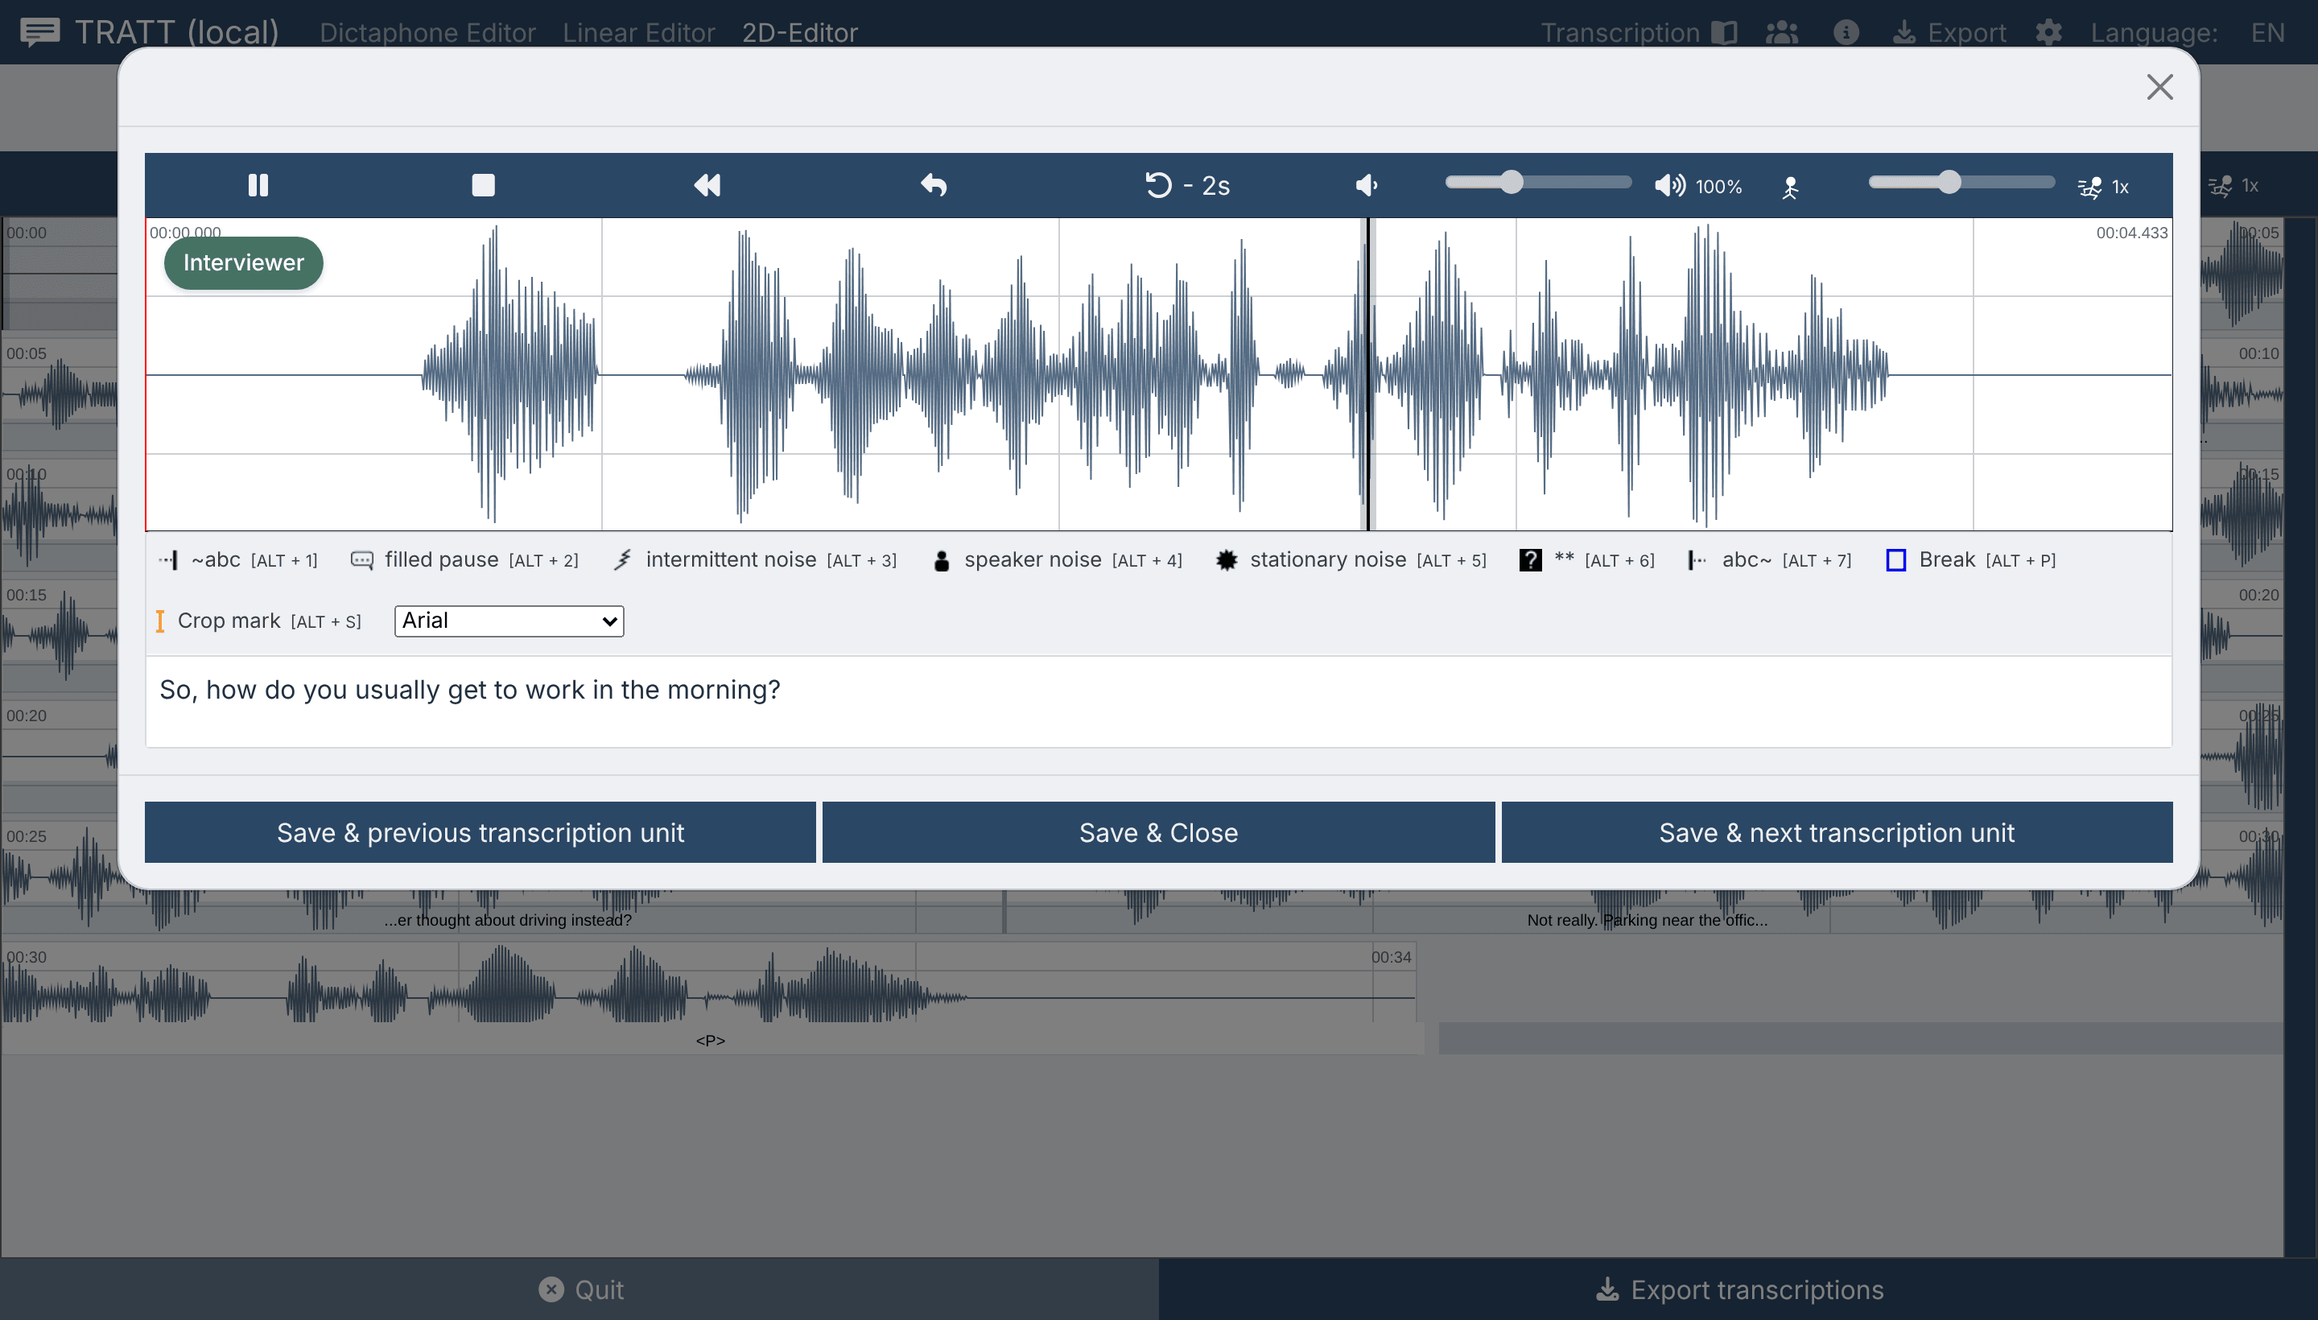
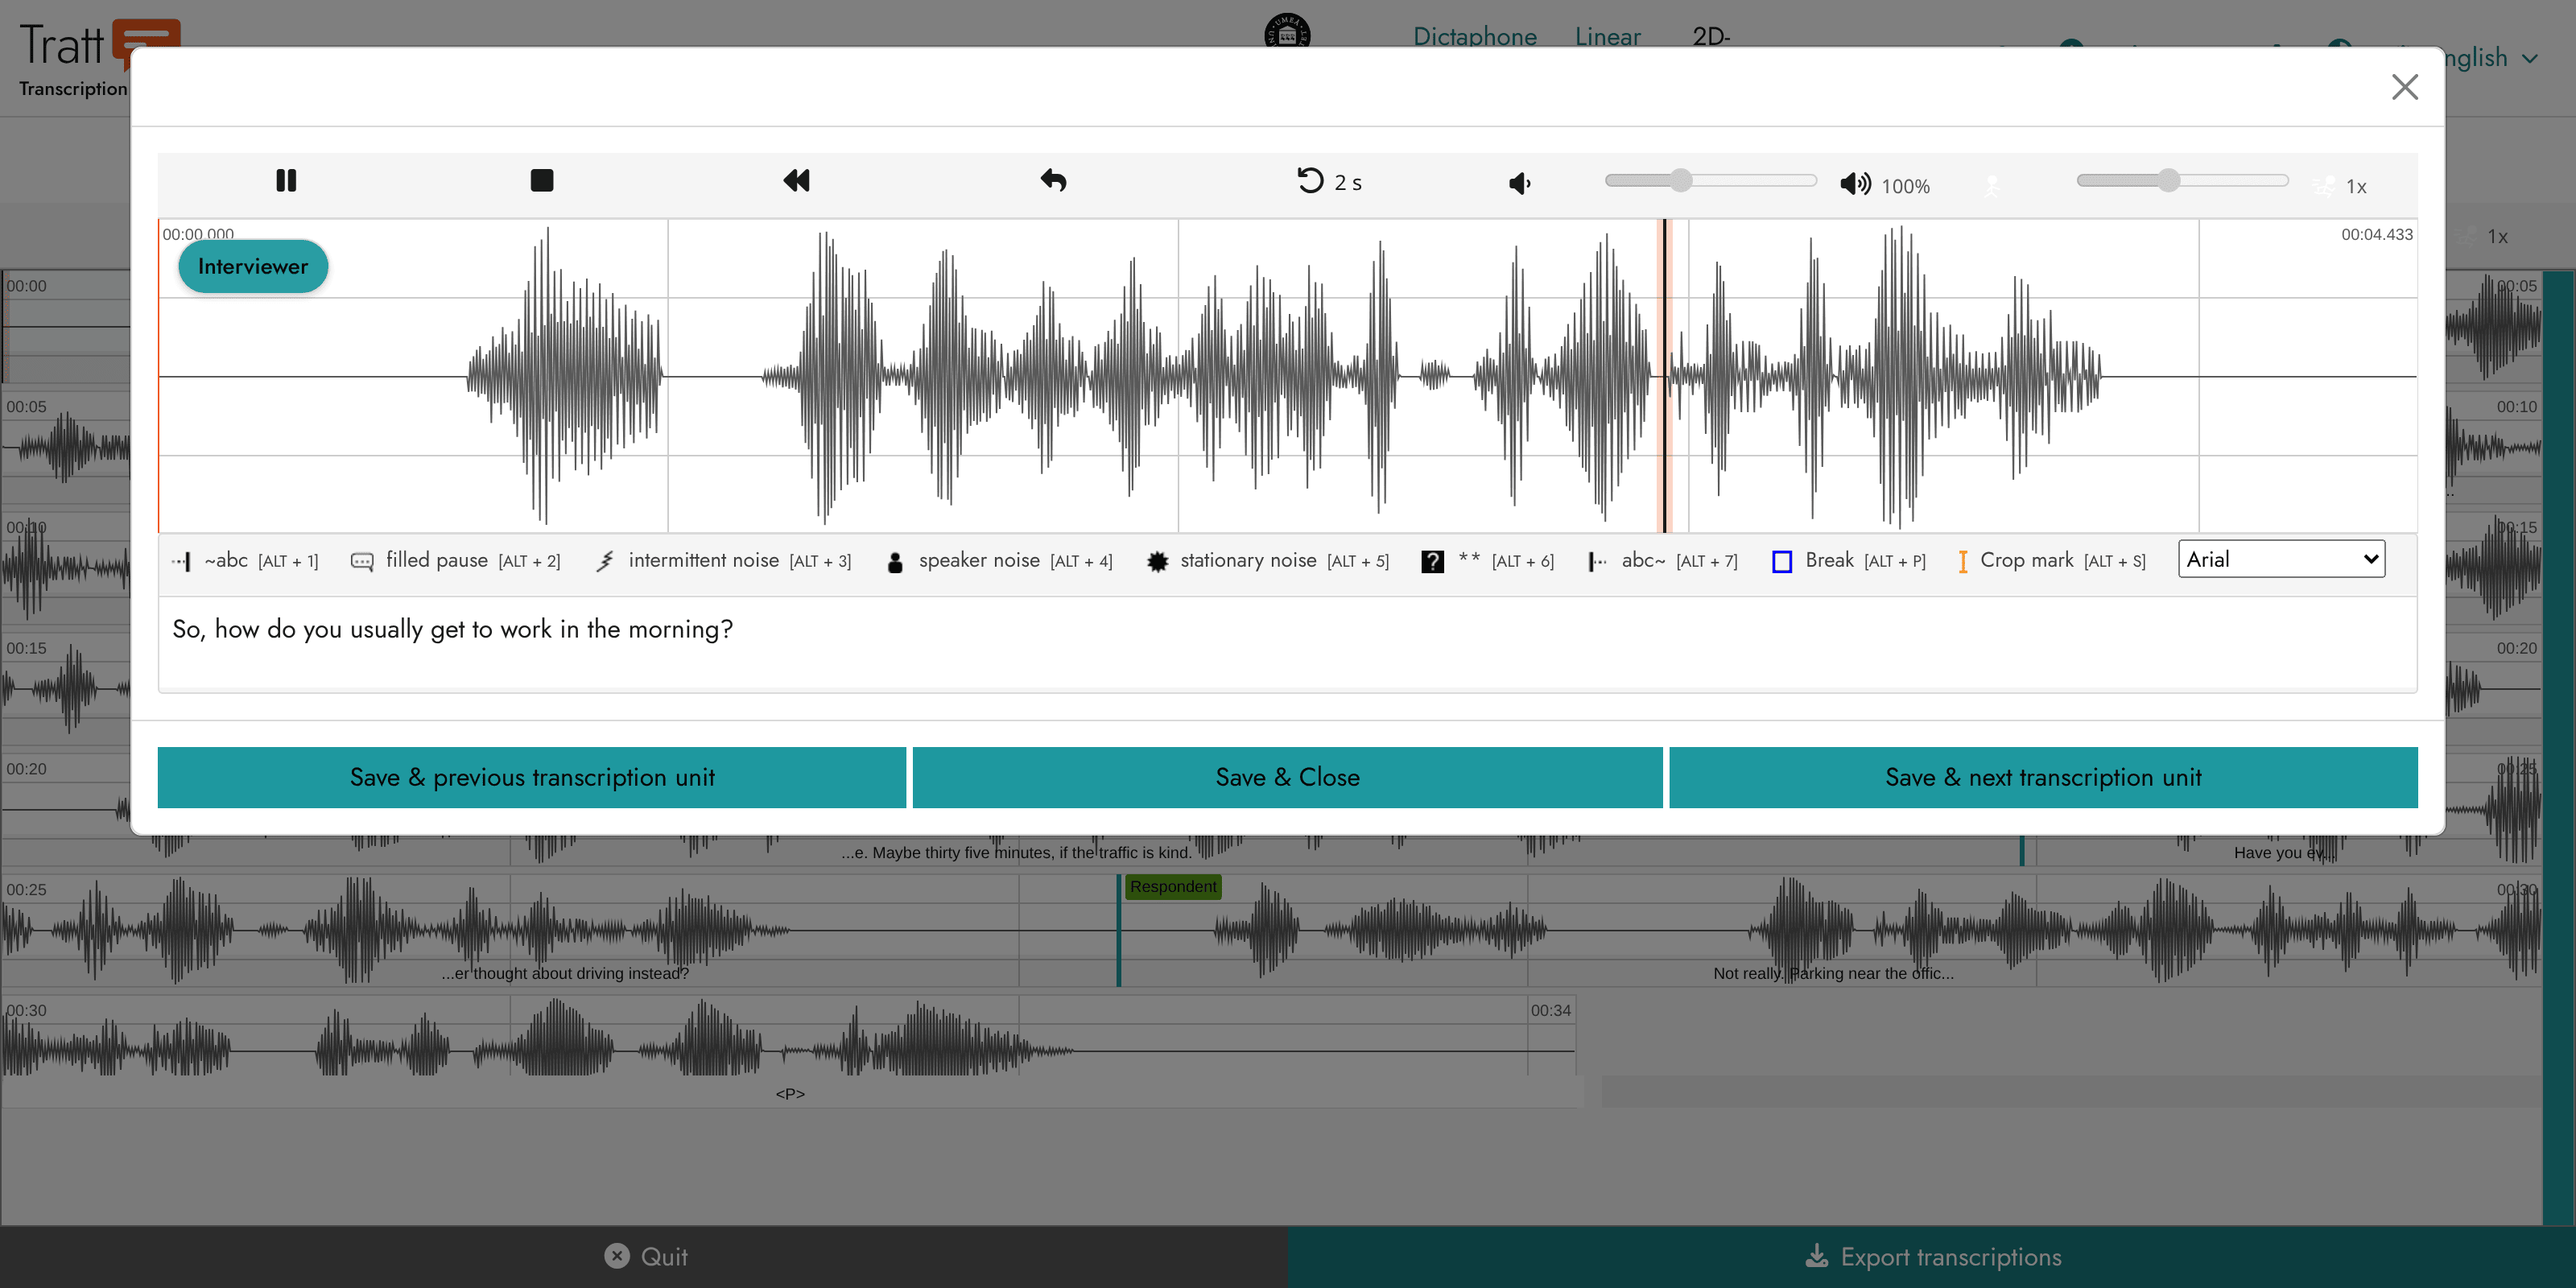
docs(manual): re-shoot the screenshots for the Språkbanken profile
Ten of the twelve images in docs/assets now come from a production build of
3ed8c0b33 (3.2.1): white header with the Tratt mark and the Umeå/Humlab logo,
teal for interaction, orange for the next step, Jost headings over Noto Serif
body. The shipped-shape spec recorded them as not regenerated because the
fixtures and espeak-ng were missing; both exist again, so nine were taken in one
run against that build and the Whisper options in a real Chrome with WebGPU.

Three things the new shots showed the text had wrong:

- The Overview's inline editor opens on a double-click, not a click
  (transcr-overview.component.html binds dblclick). Corrected in both languages.
- Large v3 is ~1.2 GB, not 3.1 GB. The other model rows, including the Swedish
  KB-Whisper and Finnish lists, still match.
- Auto-transcribe with Whisper is a switch now, not a checkbox, and sits beside
  Translate transcript locally inside the upload card. The Whisper image covers
  the whole card for that reason.

CONTRIBUTING loses its "stale, pre-profile" warning and records the viewports
used (1600 wide for the editors, 620 high for the two that are a player over a
text field), that the importer marks one row verified where the fixture expects
two, and that two README-only images could not be regenerated: the draft
transcription needs huggingface.co and the video popup needs a video fixture the
app accepts.

Validated: 16 pages x 2 languages, all links/anchors/deep links resolve.
[…]

diff --git a/docs/manual/CONTRIBUTING.md b/docs/manual/CONTRIBUTING.md
@@ -177,17 +177,17 @@ Not exercised live, and therefore still source-derived only:
 
 ## Screenshots
 
-**Stale: the following describes the images as they were before the Språkbanken
-profile.** The nine screenshots in `docs/assets/` were taken from a production
-build served locally, so the chrome matched from page to page. Seven of them came
-from one session on the 8 October build; the Overview and the Workbench were
-re-shot from the 22 October build, which was the first to carry the verification
-markers and the current drop-area wording. None of them has been re-shot since the
-profile, so they still show the old look (navy header, blue buttons) until the
-script has been run and the by-hand images taken.
+The ten screenshots in `docs/assets/` were re-shot for the Språkbanken profile
+from a production build of `3ed8c0b33` (version 3.2.1) served locally, so the
+chrome matches from page to page: white header, Umeå/Humlab logo, teal
+interaction and orange next-step buttons, Jost headings over Noto Serif body.
+Nine came from one run against that build; `auto_transcription_options` was taken
+in a real Chrome with WebGPU, as it always has to be.
 
-The script's selectors have not been run against the live UI; expect to adjust
-them on the first run.
+Two README-only images still show the pre-profile look and could not be
+regenerated here: `draft_automatic_transcription` needs an auto-transcription in
+progress (the model download needs `huggingface.co`) and
+`popup_editor_audio_and_video` needs a video fixture that the app will accept.
 
 To re-shoot (everything except the WebGPU image):
 
@@ -218,12 +218,12 @@ To re-shoot (everything except the WebGPU image):
 | File                                        | Shows                                                       | Used by                                   |
 | ------------------------------------------- | ----------------------------------------------------------- | ----------------------------------------- |
 | `visp_tratt_main.png`                       | The start page down to the start button                     | `quick-start.md`                          |
-| `visp_tratt_auto_transcription_options.png` | The **Auto-transcribe with Whisper** panel                  | `automatic-transcription.md`              |
+| `visp_tratt_auto_transcription_options.png` | The upload card with the Whisper options open               | `automatic-transcription.md`              |
 | `visp_tratt_2d_editor.png`                  | The 2D-Editor with speaker badges                           | `the-editors.md`                          |
 | `visp_tratt_popup_editor_audio_only.png`    | The transcription window over the 2D-Editor                 | `quick-start.md`, `the-editors.md`        |
 | `visp_tratt_dictaphone_editor.png`          | The Dictaphone Editor                                       | `the-editors.md`                          |
 | `visp_tratt_linear_editor.png`              | The Linear Editor, both displays, one unit open             | `the-editors.md`                          |
-| `visp_tratt_overview_edit.png`              | The Overview window, with verified and non-verified markers | `quick-start.md`, `checking-your-work.md` |
+| `visp_tratt_overview_edit.png`              | The Overview window, one row open for editing               | `quick-start.md`, `checking-your-work.md` |
 | `visp_tratt_export_formats.png`             | The export dialog                                           | `quick-start.md`, `exporting.md`          |
 | `visp_tratt_workbench.png`                  | The Workbench with four recordings                          | `workbench.md`                            |
 
@@ -242,18 +242,27 @@ How to reproduce them:
 - The Overview needs a part-checked transcript, or every row is the same colour.
   An SRT that Tratt itself has imported comes in verified unless the text carries
   the not-check mark, so `interview-01-mixed.srt` appends `⍻` (U+237B) to every
-  line but the first two. The first two then show the green marker and the rest
-  the orange one, which is what the reader sees after checking the opening of a
-  file. See [Verification marks](exporting.md#verification-marks-in-time-aligned-formats).
-- Viewport 1440 × 820 at a device pixel ratio of 2 for the editor pages, 1480 × 900
-  for the Workbench, 1360 wide for the start page. **Below 1400 px the editor
-  switcher in the header collapses to icons** (the Workbench's editor tabs keep
-  their labels), so do not shoot the editor narrower than that.
+  line but the first two. In 3.2.1 that yields one green row and the rest orange,
+  not two green: the importer appears to shift the flag by one unit. The picture
+  reads correctly either way. See
+  [Verification marks](exporting.md#verification-marks-in-time-aligned-formats).
+- `overview.png` (README) is the window as it opens; `overview_edit.png` has one
+  row opened for editing, which is a **double-click** on the row, not a click.
+- Device pixel ratio 2 throughout, light theme (`localStorage['tratt.theme'] =
+  'light'` before the first paint). Viewport 1600 × 800 for the 2D-Editor, the
+  transcription window and the two dialogs; 1600 × 620 for the Dictaphone and
+  Linear editors, whose text field otherwise fills the lower half with white;
+  1600 × 900 for the Workbench; 1440 wide for the start page, clipped to the
+  bottom of the upload card. **Below 1400 px the editor switcher in the header
+  collapses to icons** (the Workbench's editor tabs keep their labels), so do not
+  shoot the editor narrower than that.
 - `visp_tratt_auto_transcription_options.png` is the exception: the headless
   browser has no WebGPU, which greys out the two largest Whisper models and
   changes every model description, so that one was taken in a real Chrome with
-  WebGPU and cropped to the panel. It shows the English model list; the Nordic
-  languages get a different one.
+  WebGPU and cropped. Since the profile the options sit in two columns inside the
+  upload card, so the crop covers the whole card (**Auto-transcribe with Whisper**
+  beside **Translate transcript locally**) rather than one panel. It shows the
+  English model list; the Nordic languages get a different one.
 
 ## Caveats to delete when the app changes
 

diff --git a/docs/manual/sv/automatic-transcription.md b/docs/manual/sv/automatic-transcription.md
@@ -21,7 +21,8 @@ Ladda in mediefilen först. Alternativen dyker upp när Tratt har ljud och du
 > **Pipelineinställningar**, där de gäller varje inspelning i listan i stället för
 > en enskild fil. Allt på den här sidan gäller även där.
 
-Under släppytan markerar du **Automatisk transkribering med Whisper** och ställer
+Under släppytan slår du på **Automatisk transkribering med Whisper** (en
+strömbrytare, med **Översätt transkriptionen lokalt** bredvid) och ställer
 sedan in:
 
 1. **Transkriptionsspråk**: det språk som faktiskt talas på inspelningen. Ett
@@ -95,7 +96,7 @@ Använder OpenAI:s Whisper.
 | Tiny | 95 MB | Snabbast, minst noggrann |
 | Small | 290 MB | **Förvald.** En rimlig kompromiss. |
 | Large v3 Turbo | 700 MB | Märkt *vår valda referensmodell*, snabb och noggrann. Kräver WebGPU. |
-| Large v3 | 3,1 GB | Långsammare än Turbo, ofta något noggrannare. Kräver WebGPU. |
+| Large v3 | 1,2 GB | Långsammare än Turbo, ofta något noggrannare. Kräver WebGPU. |
 
 Tratt förväljer Small här, inte referensmodellen. Har din dator WebGPU och
 inspelningen är viktig, byt till **Large v3 Turbo**.

diff --git a/docs/manual/automatic-transcription.md b/docs/manual/automatic-transcription.md
@@ -20,7 +20,8 @@ have **not** supplied a transcript file of your own.
 > settings**, where they apply to every recording in the list rather than to one
 > file. Everything on this page applies there too.
 
-Under the drop zone, tick **Auto-transcribe with Whisper**, then set:
+Under the drop zone, turn on **Auto-transcribe with Whisper** (a switch, with
+**Translate transcript locally** beside it), then set:
 
 1. **Transcription language**: the language actually spoken on the recording.
    A hundred languages are offered, listed by their own names
@@ -88,7 +89,7 @@ Uses OpenAI's Whisper.
 | Tiny | 95 MB | Fastest, least accurate |
 | Small | 290 MB | **Preselected.** A reasonable compromise. |
 | Large v3 Turbo | 700 MB | Labelled *our selected reference model*: fast and accurate. Needs WebGPU. |
-| Large v3 | 3.1 GB | Slower than Turbo, often a little more accurate. Needs WebGPU. |
+| Large v3 | 1.2 GB | Slower than Turbo, often a little more accurate. Needs WebGPU. |
 
 Tratt preselects Small here, not the reference model. If your machine has WebGPU
 and the recording matters, switch to **Large v3 Turbo**.

diff --git a/docs/manual/checking-your-work.md b/docs/manual/checking-your-work.md
@@ -39,7 +39,7 @@ Every unit as a table row: number, text, speaker (when the transcript has speake
 and a **Play segment** button. The ▶ in the column header is **Toggle play all**,
 which plays the units in sequence.
 
-This table is editable. Click a row and the text field opens inline, complete with
+This table is editable. Double-click a row and the text field opens inline, complete with
 the marker toolbar. For a final read-through this is often faster than stepping
 through the waveform, because you can read continuously and only stop where
 something looks wrong. Click ▶ on the suspicious row, fix it, move on.

diff --git a/docs/manual/sv/checking-your-work.md b/docs/manual/sv/checking-your-work.md
@@ -39,7 +39,7 @@ Varje enhet som en tabellrad: nummer, text, talare (när transkriptet har talare
 och en knapp **Play segment**. ▶ i kolumnrubriken är **Toggle play all**, som
 spelar enheterna i följd.
 
-Tabellen går att redigera. Klicka på en rad så öppnas textfältet på plats,
+Tabellen går att redigera. Dubbelklicka på en rad så öppnas textfältet på plats,
 komplett med markörraden. För en sista genomläsning är det ofta snabbare än att
 stega genom vågformen, eftersom du kan läsa sammanhängande och bara stanna där
 något ser fel ut. Klicka ▶ på den misstänkta raden, rätta, gå vidare.
